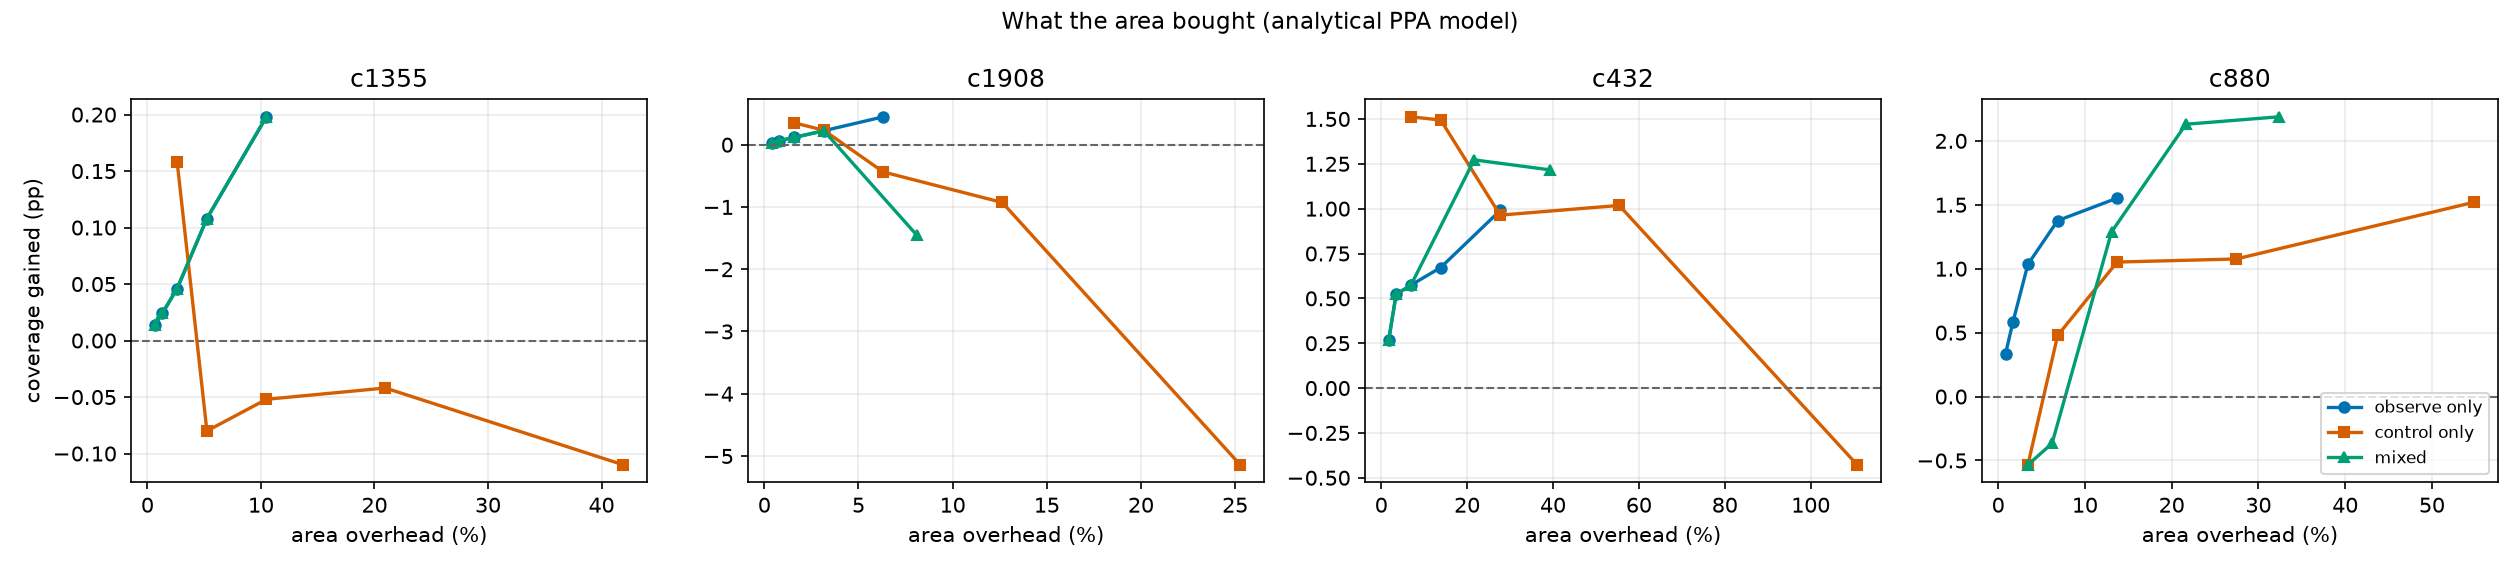
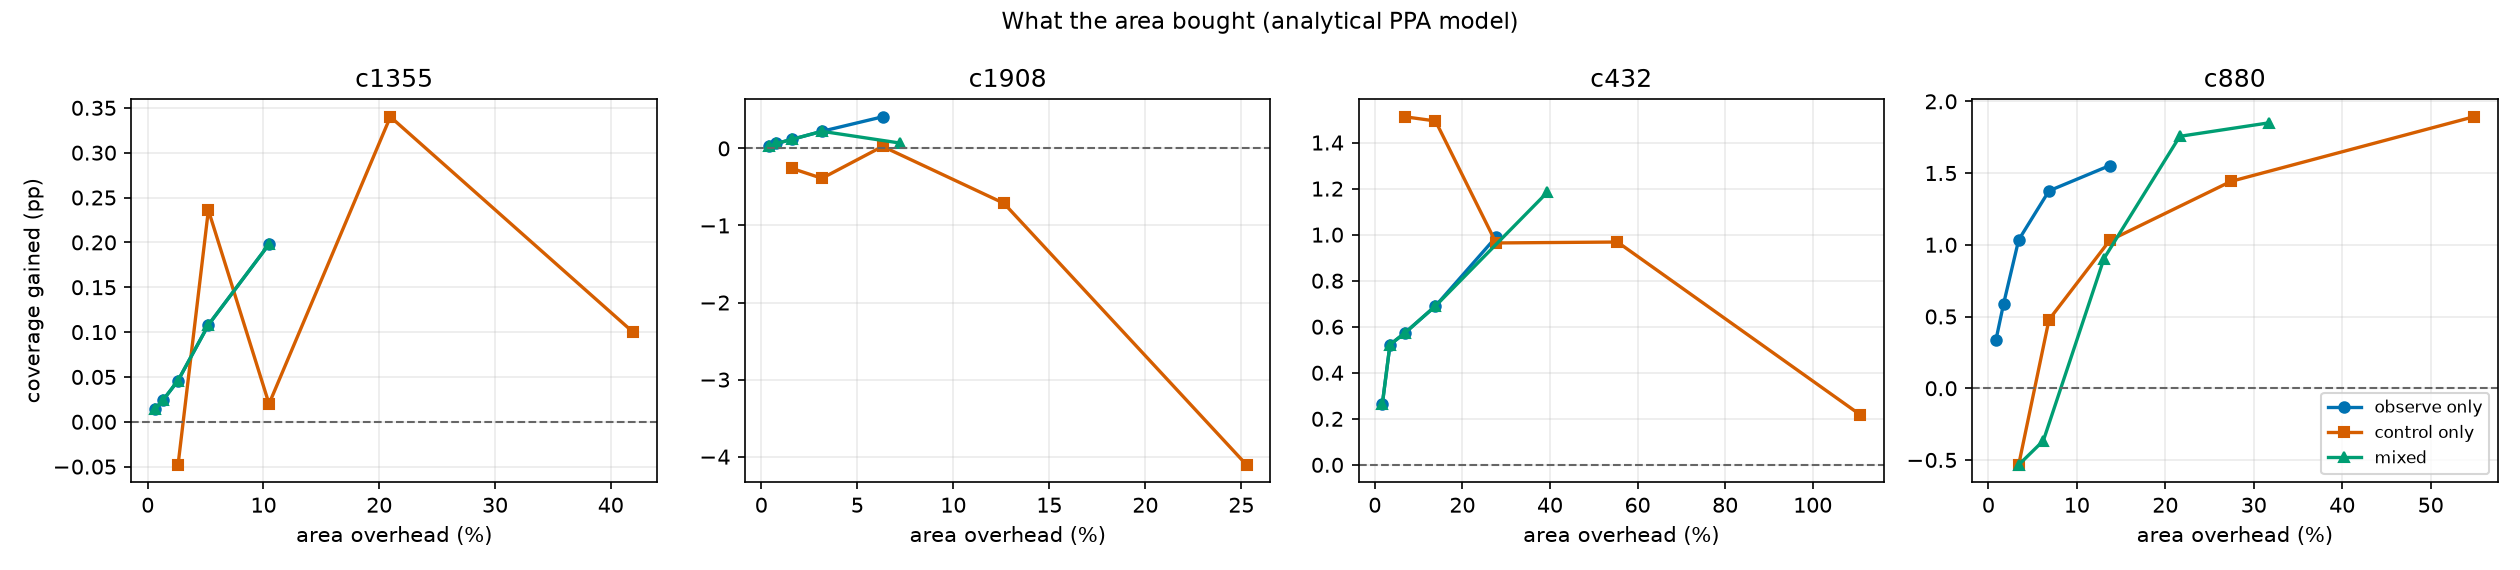
Regenerate every published number under the deterministic sort
The previous commit claimed the sort-order fix left Linux results unchanged.
That was wrong, and the claim was checked carelessly: the point count and the
area figure did match, so I took the rest on trust. They matched because the
tiebreak changes which lines win among equals, not how many, and the area only
depends on the mix of point types. The lines themselves were different, and so
was the coverage -- c880 mixed at 32 points was 99.63% under the old ordering
and is 99.26% now.

So results.csv, efficiency.csv, both plots, the README tables and every figure
in docs/metrics.md described a selection the code no longer makes. All of it is
regenerated here from the current binary: 72 configurations over four circuits,
five seeds each, plus the ablations.

The conclusions are unchanged. COP still pulls ahead of SCOAP once the budget is
big enough to matter, the enable weighting still peaks at one activation in
eight, observe points still never regress and control points still can. Only the
decimals moved, and one claim had to go: at weight 5 the control points now come
out marginally above the untouched circuit rather than below it, so the curve has
one bad end rather than two.

Also records the determinism problem itself in docs/metrics.md, since a tool
whose answer depends on the standard library is not reproducible, and that is
worth a section rather than a commit message nobody reads.

diff --git a/docs/metrics.md b/docs/metrics.md
@@ -1,8 +1,10 @@
 # Why the inserter works the way it does
 
-Three things in `src/tpi.cpp` look arbitrary until you see what they were
-measured against. All the numbers here come from `python/ablation.py` on c880,
-1000 patterns, averaged over 5 LFSR seeds, and can be regenerated with:
+Several things in `src/tpi.cpp` look arbitrary until you see what they were
+measured against. The first three sections below are the design choices, the
+last two are results worth knowing before reading any coverage number in this
+repository. All of it comes from `python/ablation.py` on c880, 1000 patterns,
+averaged over 5 LFSR seeds, and can be regenerated with:
 
     python3 python/ablation.py --circuit c880
 
@@ -31,13 +33,13 @@ Head to head on c880, mixed mode, weight 3, baseline 97.50%:
 | budget | COP | SCOAP |
 |---|---|---|
 | 8 | 97.13 +/-0.65 | 97.80 +/-0.46 |
-| 16 | **98.79** +/-0.32 | 98.05 +/-0.45 |
-| 32 | **99.63** +/-0.05 | 98.33 +/-0.51 |
-| 64 | **99.69** +/-0.10 | 98.68 +/-0.40 |
+| 16 | **98.40** +/-0.40 | 98.05 +/-0.45 |
+| 32 | **99.26** +/-0.20 | 98.33 +/-0.51 |
+| 64 | **99.35** +/-0.21 | 98.68 +/-0.40 |
 
 At a budget of 8 SCOAP is actually ahead, and both sit within noise of doing
 nothing. The separation opens up once there are enough points to matter, and by
-32 it is 1.3 points. `-metric scoap` keeps the old ranking so this can be re-run.
+32 it is nearly a point. `-metric scoap` keeps the old ranking so this can be re-run.
 
 ## 2. Control points need a weighted enable
 
@@ -57,15 +59,16 @@ baseline 97.50%:
 
 | weight | fires | coverage |
 |---|---|---|
-| 1 | 1/2 | 94.52 +/-0.47 — *worse than no points* |
-| 2 | 1/4 | 98.10 +/-0.44 |
-| 3 | 1/8 | **98.58** +/-0.22 |
-| 4 | 1/16 | 98.03 +/-0.30 |
-| 5 | 1/32 | 97.10 +/-0.37 — *worse than no points* |
+| 1 | 1/2 | 94.18 +/-0.53 — *worse than no points* |
+| 2 | 1/4 | 97.92 +/-0.65 |
+| 3 | 1/8 | **98.94** +/-0.21 |
+| 4 | 1/16 | 98.34 +/-0.49 |
+| 5 | 1/32 | 97.61 +/-0.36 |
 
-It is a proper curve with a peak, and both ends of it lose to the untouched
-circuit. Too eager and the point spends its time blocking real patterns; too
-timid and it never fires when it is needed. One in eight is the default.
+It is a proper curve with a peak. Too eager and the point spends its time
+blocking real patterns, which is bad enough at weight 1 to lose three points
+against doing nothing at all; too timid and it stops firing when it is needed
+and the gain decays back toward the baseline. One in eight is the default.
 
 ## 3. The seeds have to be spread out
 
@@ -109,7 +112,7 @@ only thing that fixes a line random patterns cannot drive at all.
 Which one wins depends on the circuit, and the sweep shows both cases. On c880
 observe points give the best coverage per unit of area (+0.34pp for 0.86%); on
 c432 control points do (+1.51pp for 6.93%). The sweep also has the failure mode:
-c1908 with 64 control points lands at 89.42% against a 94.56% baseline, over five
+c1908 with 64 control points lands at 90.45% against a 94.56% baseline, four
 points *down*. No observe-point configuration in the sweep ever regressed.
 `-mode mixed` decides per node by comparing the two probabilities, with a `-bias`
 factor tilting the comparison toward observe points to pay for the asymmetry
@@ -131,3 +134,20 @@ scaled off Nangate 45nm X1 cells. No synthesis has run. In particular:
 `PpaModel::loadFromFile` replaces the cell table with numbers parsed from a real
 Genus report (`tools/parse_genus.py`), which fixes the first two. Congestion and
 wirelength need Innovus and are not addressed here.
+
+## 5. Determinism across toolchains
+
+Worth recording because it was not obvious. The same command on the same circuit
+selected a different set of test points on macOS than on Linux -- the same
+*number* of points and the same area, but different lines, and coverage a few
+tenths apart.
+
+Nothing random is involved. Lines tie on detection probability constantly;
+symmetric logic hands whole groups the same value. `std::sort` is not stable, so
+within a tied group the winners came down to whether libc++ or libstdc++ was
+doing the sorting. Adding the line number as a second sort key pins the order
+everywhere, and the two platforms now produce byte-identical netlists.
+
+The numbers in this file and in the README were regenerated after that fix. They
+are what the current code produces; the earlier ones were what an unstable sort
+happened to pick on one machine.

diff --git a/README.md b/README.md
@@ -107,21 +107,21 @@ which is the case test points actually exist to fix. Full table in
 | Circuit | No points | Best | Config | Area | Delay | Gain |
 |---|---|---|---|---|---|---|
 | c432 | 98.36% | 99.87% | cp, k=4 | +6.9% | +7.7% | +1.51pp |
-| c880 | 97.50% | 99.69% | mixed, k=64 | +32.4% | +4.2% | +2.19pp |
-| c1355 | 98.12% | 98.31% | mixed, k=64 | +10.5% | +0.0% | +0.20pp |
-| c1908 | 94.56% | 95.01% | op, k=64 | +6.3% | +0.0% | +0.45pp |
+| c880 | 97.50% | 99.39% | cp, k=64 | +54.9% | +21.7% | +1.89pp |
+| c1355 | 98.12% | 98.46% | cp, k=32 | +21.0% | +15.2% | +0.34pp |
+| c1908 | 94.56% | 94.97% | op, k=64 | +6.3% | +0.0% | +0.41pp |
 
 The gains are not uniform, and that is the actual finding. c880 and c432 respond
-well — c880 picks up 2.19 points and c432 lands at 99.87% for under 7% area.
-c1355 and c1908 barely move however much budget they get, because what is left
-undetected there is not reachable by making one line easier to drive or watch.
+well. c1355 and c1908 barely move however much budget they get, because what is
+left undetected there is not reachable by making one line easier to drive or
+watch.
 
 Nor is more budget monotonically better. The worst result in the whole sweep is
-c1908 with 64 control points at **89.42%**, five points *below* leaving it alone,
-and c432 with 64 control points also drops under its baseline. Control points
-trade downstream propagation for local controllability, and past some budget the
-trade stops paying. Observe points never regress, which is why they are the safe
-default when a circuit is unfamiliar.
+c1908 with 64 control points at **90.45%**, 4.11 points *below*
+leaving it alone. Control points trade downstream propagation for local
+controllability, and past some budget the trade stops paying. Observe points
+never regress, which is why they are the safe default when a circuit is
+unfamiliar.
 
 Cheapest worthwhile insertion, per circuit — coverage gained per percent of area:
 
@@ -129,14 +129,17 @@ Cheapest worthwhile insertion, per circuit — coverage gained per percent of ar
 |---|---|---|---|---|
 | c432 | cp, k=4 | 99.87% | +6.93% | +1.51pp |
 | c880 | op, k=4 | 97.84% | +0.86% | +0.34pp |
-| c1355 | cp, k=4 | 98.27% | +2.62% | +0.16pp |
-| c1908 | cp, k=4 | 94.91% | +1.58% | +0.35pp |
+| c1355 | cp, k=8 | 98.35% | +5.24% | +0.24pp |
+| c1908 | mixed, k=8 | 94.62% | +0.79% | +0.06pp |
 
 Plots: `results/coverage_vs_budget.png` and `results/coverage_vs_area.png`.
 The second is the one worth looking at — it puts coverage against what it cost
 rather than against a budget number, which is the only comparison that decides
 anything.
 
+Every number here is reproducible: `python/sweep.py` fixes its LFSR seeds, and
+the point selection is deterministic across compilers (see the note on sort
+ordering in docs/metrics.md).
 
 ## PPA numbers
 
